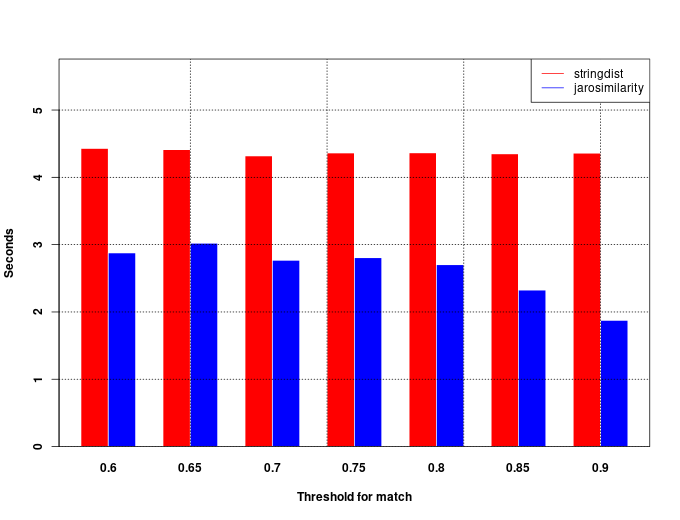
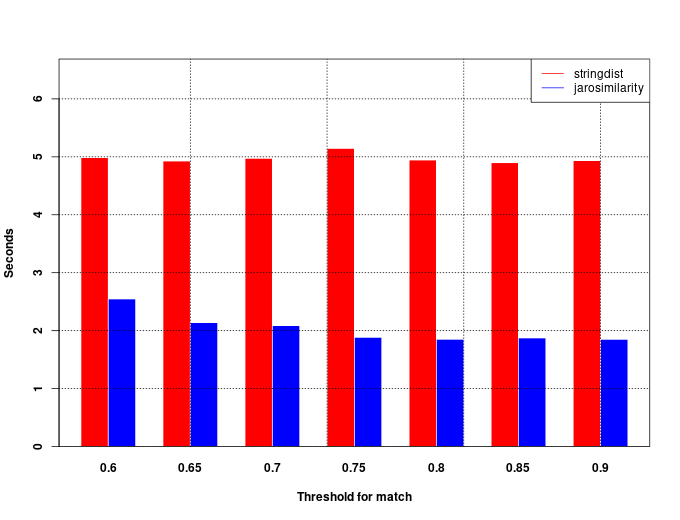
exit early uses also y; perf stats updated

diff --git a/pkg/src/c_jarosimilarity.c b/pkg/src/c_jarosimilarity.c
@@ -1,6 +1,7 @@
 #include <R.h>
 #include <Rinternals.h>
 #include <stdio.h>
+#include <math.h>
 #ifdef _OPENMP
 #include <omp.h>
 #endif
@@ -22,8 +23,7 @@ double _jarosimilarity(
     if ( x == 0 && y == 0 ) return 0;
 
     char *wrk = (char *) work;
-    char *matcha = wrk
-                , *matchb = wrk + x;  
+    char *matcha = wrk, *matchb = wrk + x;  
     char left, right;
 
 
@@ -47,14 +47,12 @@ double _jarosimilarity(
         }
     }
 
-    // m/x must be at least m_x * x, to be above threshold
-    double m_x = threshold/(1.0/3.0) - 2;
-    // // Count the number of matching characters needed
-    int min_m = floor( m_x * x) - 1;
-
-    // if (m <= 1) {
-    //     return 0.0;
-    // }
+    // Solve how many matches we need at least to go above the threshold if we assume that t = 0.
+    // jarosimilarity being (x/m + y/m + (m-t)/m) * (1/3)
+    // 
+    // Given a threshold 0.9, we can simplify it to this and solve m
+    
+    int  min_m =  ceil(  ( ((threshold * 3) - 1) * (x*y) ) / (y+x) );
 
     if ( m < min_m ){
         return 0.0;
